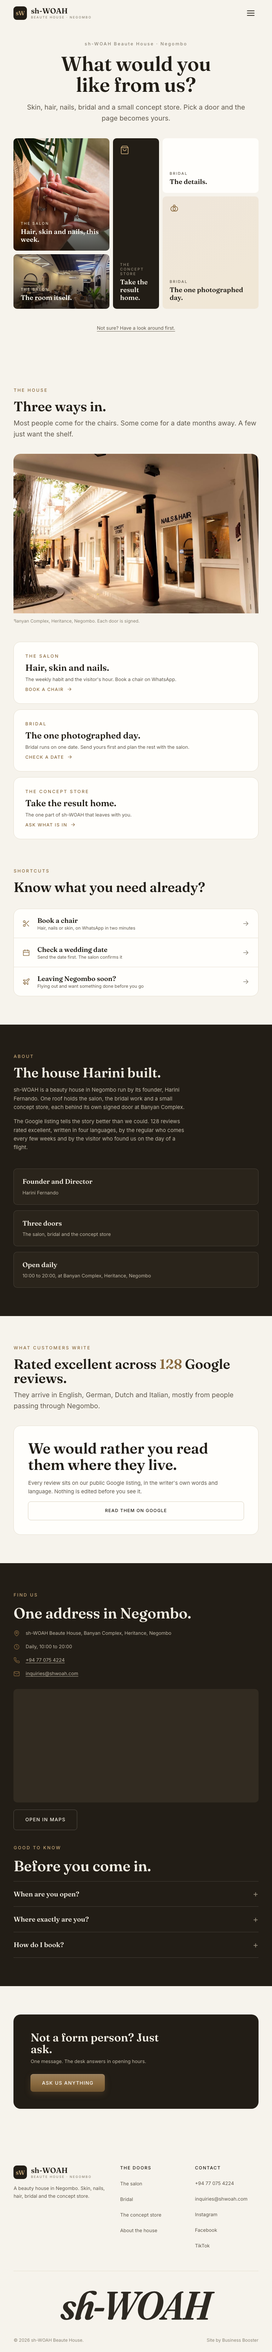
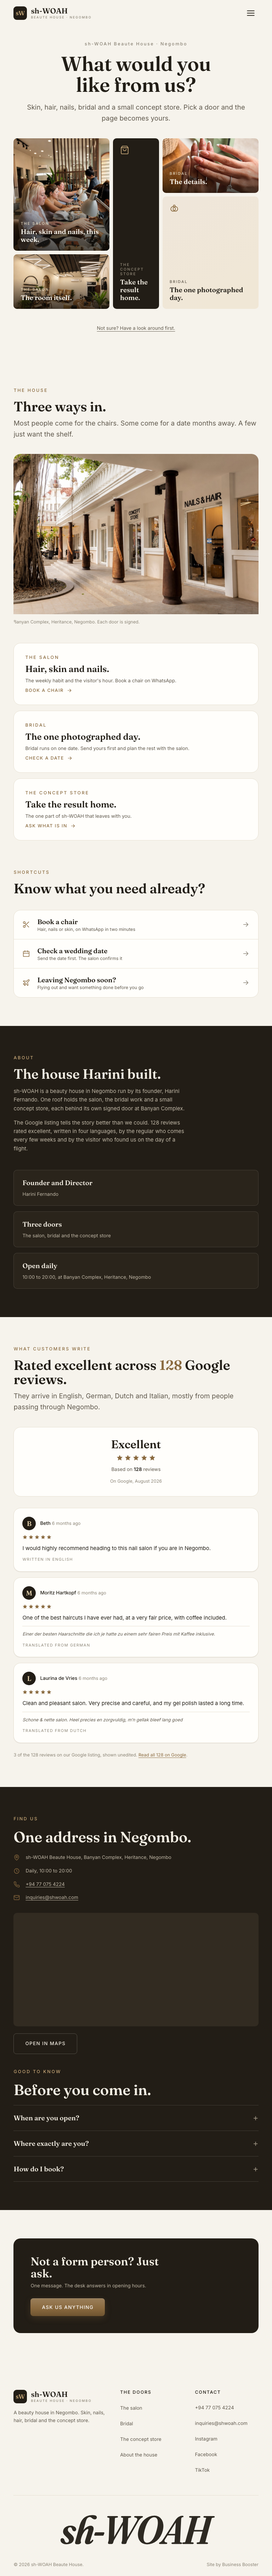
Better photography (9 real enhanced), review wall with 3 verified Google reviews, maps embed, work grid

diff --git a/index.html b/index.html
@@ -229,6 +229,10 @@ body.dev .ph-cap{display:inline-block}
 .house-shot{border-radius:var(--r-lg);overflow:hidden;margin-bottom:var(--s-12)}
 .house-shot img{width:100%;height:auto}
 .house-shot figcaption{padding:var(--s-3) 0 0;color:var(--faint);font-size:var(--fs-xs)}
+.work-grid{display:grid;grid-template-columns:repeat(4,1fr);gap:var(--s-3)}
+@media(max-width:820px){.work-grid{grid-template-columns:repeat(2,1fr)}}
+.work-grid figure{margin:0;border-radius:var(--r-md);overflow:hidden;background:var(--surface-2)}
+.work-grid img{width:100%;height:100%;object-fit:cover;aspect-ratio:4/5}
 .map-embed{border:0;width:100%;height:320px;border-radius:var(--r-md);display:block;background:var(--surface-2)}
 .tools-card{border:1px solid var(--line);border-radius:var(--r-lg);background:var(--surface);overflow:hidden;max-width:760px}
 .tool-row{display:flex;width:100%;align-items:center;gap:var(--s-5);padding:var(--s-5) var(--s-6);
@@ -313,13 +317,36 @@ html.nojs .needs-js{display:none}
 .rev-fallback .big{font-family:var(--font-display);font-weight:600;font-size:var(--fs-2xl);line-height:1.1}
 @media(max-width:700px){.rev-fallback{padding:var(--s-6)}.rev-fallback .big{font-size:var(--fs-lg)}}
 .rev-fallback .big i{font-style:normal;color:var(--brand)}
+
+/* review wall: score rail + cards */
+.rev-wall{display:grid;grid-template-columns:230px minmax(0,1fr);gap:var(--s-10);align-items:start}
+@media(max-width:900px){.rev-wall{grid-template-columns:1fr;gap:var(--s-8)}}
+.rev-score{text-align:center;border:1px solid var(--line);border-radius:var(--r-lg);
+  background:var(--surface);padding:var(--s-8) var(--s-5)}
+.rev-score .word{font-family:var(--font-display);font-weight:600;font-size:var(--fs-xl);line-height:1}
+.rev-score .stars{display:flex;justify-content:center;gap:3px;margin:var(--s-3) 0}
+.rev-score .stars svg{width:20px;height:20px;color:var(--brand)}
+.rev-score .count{color:var(--muted);font-size:var(--fs-sm)}
+.rev-score .count b{color:var(--ink);font-weight:600}
+.rev-score .src{margin-top:var(--s-3);color:var(--faint);font-size:var(--fs-xs)}
 .rev-grid{display:grid;grid-template-columns:repeat(3,1fr);gap:var(--s-4)}
-@media(max-width:820px){.rev-grid{grid-template-columns:1fr}}
-.rev-card{border:1px solid var(--line);border-radius:var(--r-lg);background:var(--surface);padding:var(--s-6);
-  display:flex;flex-direction:column;gap:var(--s-3);font-size:var(--fs-sm)}
-.rev-card .r-meta{display:flex;justify-content:space-between;gap:var(--s-3);color:var(--faint);font-size:var(--fs-xs)}
-.rev-card .r-text{color:var(--ink)}
-.rev-card .r-orig{color:var(--faint);font-style:italic}
+@media(max-width:900px){.rev-grid{grid-template-columns:1fr}}
+.rev-card{position:relative;border:1px solid var(--line);border-radius:var(--r-lg);background:var(--surface);
+  padding:var(--s-6);display:flex;flex-direction:column;gap:var(--s-3);font-size:var(--fs-sm);
+  box-shadow:var(--shadow-xs)}
+.rev-card .r-top{display:flex;align-items:center;gap:var(--s-3)}
+.rev-card .r-av{width:38px;height:38px;border-radius:50%;flex:none;display:grid;place-items:center;
+  background:var(--brand-ink);color:#e6d3ae;font-family:var(--font-display);font-weight:600;font-size:var(--fs-md)}
+.rev-card .r-who{font-weight:500;color:var(--ink);line-height:1.25}
+.rev-card .r-when{color:var(--faint);font-size:var(--fs-xs)}
+.rev-card .r-stars{display:flex;gap:2px}
+.rev-card .r-stars svg{width:15px;height:15px;color:var(--brand)}
+.rev-card .r-text{color:var(--ink);font-size:var(--fs-base);line-height:1.55}
+.rev-card .r-orig{color:var(--muted);font-style:italic;font-size:var(--fs-xs);
+  border-top:1px solid var(--line);padding-top:var(--s-3)}
+.rev-card .r-lang{margin-top:auto;color:var(--faint);font-size:var(--fs-2xs);
+  letter-spacing:.14em;text-transform:uppercase}
+.rev-note{margin-top:var(--s-6);color:var(--faint);font-size:var(--fs-xs)}
 .rev-filters{display:flex;gap:var(--s-2);flex-wrap:wrap;margin-bottom:var(--s-6)}
 
 /* ======= price surface ======= */
@@ -439,12 +466,12 @@ html.nojs .needs-js{display:none}
          cluster left, the product alone centre, bridal right. -->
     <div class="mosaic" role="group" aria-label="Choose what you came for">
       <button type="button" class="tile tile-s1 tile-photo" data-door="salon" onclick="pickDoor('salon')">
-        <img src="assets/nails-work.jpg" width="800" height="971" alt="Nail work done at sh-WOAH, a French manicure with gold star details">
+        <img src="assets/manicure-bar.jpg" width="1200" height="1463" alt="The manicure bar at sh-WOAH, four customers having their nails done">
         <span class="t-door">The salon</span>
         <span class="t-line">Hair, skin and nails, this week.</span>
       </button>
       <button type="button" class="tile tile-s2 tile-photo" data-door="salon" onclick="pickDoor('salon')">
-        <img src="assets/salon-room.jpg" width="800" height="1044" alt="The salon floor at sh-WOAH in Negombo">
+        <img src="assets/salon-room.jpg" width="900" height="1176" alt="The salon floor at sh-WOAH in Negombo">
         <span class="t-door">The salon</span>
         <span class="t-line">The room itself.</span>
       </button>
@@ -454,8 +481,11 @@ html.nojs .needs-js{display:none}
         <span class="t-door">The concept store</span>
         <span class="t-line">Take the result home.</span>
       </button>
+      <!-- Bridal tiles carry NO photograph: every image supplied so far is salon
+           work, and a manicure under a "Bridal" label claims a portfolio that
+           has not been supplied. Designed tiles until real bridal work arrives. -->
       <button type="button" class="tile tile-b1" data-door="bridal" onclick="pickDoor('bridal')">
-        <span class="ph-cap">Photo slot: detail, hands or veil</span>
+        <span class="ph-cap">Photo slot: real bridal work</span>
         <span class="t-door">Bridal</span>
         <span class="t-line">The details.</span>
       </button>
@@ -483,7 +513,7 @@ html.nojs .needs-js{display:none}
       <p>Most people come for the chairs. Some come for a date months away. A few just want the shelf.</p>
     </div>
     <figure class="house-shot" data-sr>
-      <img src="assets/exterior-three-doors.jpg" width="1200" height="780" loading="lazy" alt="The sh-WOAH arcade in Negombo, with Bridal, Concept Store and Nails &amp; Hair signs over their own doors">
+      <img src="assets/exterior-three-doors.jpg" width="1600" height="1046" loading="lazy" alt="The sh-WOAH arcade in Negombo, with Bridal, Concept Store and Nails &amp; Hair signs over their own doors">
       <figcaption>Banyan Complex, Heritance, Negombo. Each door is signed.</figcaption>
     </figure>
     <div class="lines" data-sr>
@@ -579,6 +609,21 @@ html.nojs .needs-js{display:none}
       </div>
     </div>
     <p class="tool-note" data-sr>The full treatment menu is being written up with prices. Until it is published here, the desk will send it to you.</p>
+  </div>
+</section>
+
+<section class="section" data-modes="salon" id="work">
+  <div class="wrap">
+    <div class="sect-head" data-sr>
+      <span class="eyebrow">The work</span>
+      <h2>Done here, in this room.</h2>
+    </div>
+    <div class="work-grid" data-sr>
+      <figure><img src="assets/nail-bar.jpg" width="900" height="1074" loading="lazy" alt="The nail bar at sh-WOAH, two stations under an arched polish display"></figure>
+      <figure><img src="assets/pedicure-lounge.jpg" width="900" height="1140" loading="lazy" alt="The pedicure lounge at sh-WOAH, customers in cream armchairs against a green wall"></figure>
+      <figure><img src="assets/hair-result.jpg" width="900" height="880" loading="lazy" alt="A finished blow dry at sh-WOAH, layered and lifted"></figure>
+      <figure><img src="assets/lash-work.jpg" width="900" height="1170" loading="lazy" alt="Lash work in progress at sh-WOAH"></figure>
+    </div>
   </div>
 </section>
 
@@ -813,13 +858,24 @@ html.nojs .needs-js{display:none}
       <h2>Rated excellent across <i style="font-style:normal;color:var(--brand)">128</i> Google reviews.</h2>
       <p>They arrive in English, German, Dutch and Italian, mostly from people passing through Negombo.</p>
     </div>
+    <div class="rev-wall" id="revWall" data-sr hidden>
+      <aside class="rev-score">
+        <p class="word">Excellent</p>
+        <div class="stars" aria-hidden="true"></div>
+        <p class="count">Based on <b>128</b> reviews</p>
+        <p class="src">On Google, August 2026</p>
+      </aside>
+      <div>
+        <div class="rev-grid" id="revGrid"></div>
+        <p class="rev-note"><span id="revNote"></span>
+          <a href="https://www.google.com/maps/search/?api=1&amp;query=sh-WOAH%20Beaute%20House%20Negombo" target="_blank" rel="noopener" style="color:var(--brand);text-decoration:underline;text-underline-offset:3px">Read all 128 on Google</a>.</p>
+      </div>
+    </div>
     <div data-sr>
-      <div class="rev-filters" id="revFilters" hidden></div>
-      <div class="rev-grid" id="revGrid" hidden></div>
       <div class="rev-fallback" id="revFallback">
         <p class="big">We would rather you read them where they live.</p>
         <p style="color:var(--muted)">Every review sits on our public Google listing, in the writer's own words and language. Nothing is edited before you see it.</p>
-        <a class="btn btn-ghost" href="https://www.google.com/maps/search/?api=1&query=sh-WOAH%20Beaute%20House%20Negombo" target="_blank" rel="noopener">Read them on Google</a>
+        <a class="btn btn-ghost" href="https://www.google.com/maps/search/?api=1&amp;query=sh-WOAH%20Beaute%20House%20Negombo" target="_blank" rel="noopener">Read them on Google</a>
       </div>
     </div>
   </div>
@@ -919,9 +975,26 @@ const CFG = {
 /* Reviews: verified only. Schema per the build brief. Empty until a confirmed
    subset is supplied (BB pulls by hand, Harini confirms). Live Google sync
    needs the Places API and a paid key: swap loadReviews() only. */
+/* Read off the salon's own published Google reviews widget, 26 August 2026.
+   ONLY COMPLETE SENTENCES are stored: the widget truncates longer reviews with
+   "Read more" and a half sentence must never be published as a whole one.
+   Translations are labelled as translations and the original always ships. */
 const REVIEWS = [
-  /* { id:'', author:'', rating:5, originalText:'', translatedText:'', language:'de',
-       serviceLine:'salon', staffMentioned:[], sourceUrl:'', reviewDate:'', verified:false } */
+  { id:'r1', author:'Moritz Hartkopf', rating:5, language:'de',
+    originalText:'Einer der besten Haarschnitte die ich je hatte zu einem sehr fairen Preis mit Kaffee inklusive.',
+    translatedText:'One of the best haircuts I have ever had, at a very fair price, with coffee included.',
+    serviceLine:'salon', staffMentioned:[], sourceUrl:'https://www.google.com/maps/search/?api=1&query=sh-WOAH%20Beaute%20House%20Negombo',
+    reviewDate:'6 months ago', verified:true },
+  { id:'r2', author:'Beth', rating:5, language:'en',
+    originalText:'I would highly recommend heading to this nail salon if you are in Negombo.',
+    translatedText:'',
+    serviceLine:'salon', staffMentioned:[], sourceUrl:'https://www.google.com/maps/search/?api=1&query=sh-WOAH%20Beaute%20House%20Negombo',
+    reviewDate:'6 months ago', verified:true },
+  { id:'r3', author:'Laurina de Vries', rating:5, language:'nl',
+    originalText:'Schone & nette salon. Heel precies en zorgvuldig, m’n gellak bleef lang goed',
+    translatedText:'Clean and pleasant salon. Very precise and careful, my gel polish lasted a long time.',
+    serviceLine:'salon', staffMentioned:[], sourceUrl:'https://www.google.com/maps/search/?api=1&query=sh-WOAH%20Beaute%20House%20Negombo',
+    reviewDate:'6 months ago', verified:true }
 ];
 const TEAM = [];        /* { id, name, role, specialities:[], photo, languages:[], bookableByName } */
 const CONCEPT = { flagged: true, products: [] };  /* { id, name, priceLKR:null, photo, description, verified:false } */
@@ -1075,28 +1148,40 @@ function sendBridal(btn){
    128 are on the page. A visitor's own language is ordered first.
    ===================================================================== */
 const LANG_NAME = { en:'English', de:'German', nl:'Dutch', it:'Italian' };
+const STAR = '<svg viewBox="0 0 24 24" fill="currentColor" aria-hidden="true"><path d="m12 2 2.9 6.3 6.8.8-5 4.7 1.3 6.8L12 17.3 6 20.6l1.3-6.8-5-4.7 6.8-.8z"/></svg>';
+const esc = s => String(s).replace(/[&<>"]/g, c => ({'&':'&amp;','<':'&lt;','>':'&gt;','"':'&quot;'}[c]));
+
 function renderReviews(){
   let rows = REVIEWS.filter(r => r.verified);
-  if (DEV && !rows.length) {
-    rows = [
-      { author:'[Placeholder]', rating:5, originalText:'[Placeholder review. Not a real customer. Composition check only.]', translatedText:'', language:'en', serviceLine:'salon', staffMentioned:[], reviewDate:'' },
-      { author:'[Placeholder]', rating:5, originalText:'[Platzhalter. Kein echter Kunde.]', translatedText:'[Placeholder. Not a real customer.]', language:'de', serviceLine:'bridal', staffMentioned:[], reviewDate:'' },
-      { author:'[Placeholder]', rating:5, originalText:'[Placeholder review. Not a real customer.]', translatedText:'', language:'en', serviceLine:'salon', staffMentioned:[], reviewDate:'' }
-    ];
-  }
   if (MODE === 'salon' || MODE === 'bridal') rows = rows.filter(r => r.serviceLine === MODE);
-  const grid = document.getElementById('revGrid'), fb = document.getElementById('revFallback'),
-        filters = document.getElementById('revFilters');
-  if (!rows.length) { grid.hidden = true; filters.hidden = true; fb.hidden = false; return; }
+  const wall = document.getElementById('revWall'), grid = document.getElementById('revGrid'),
+        fb = document.getElementById('revFallback'), note = document.getElementById('revNote');
+  if (!rows.length) { wall.hidden = true; fb.hidden = false; return; }
+
+  /* a visitor meets their own language first */
   const mine = (navigator.language || 'en').slice(0,2);
-  rows.sort((a,b) => (b.language === mine) - (a.language === mine));
+  rows = rows.slice().sort((a,b) => (b.language === mine) - (a.language === mine));
+
+  wall.querySelector('.stars').innerHTML = STAR.repeat(5);
   grid.innerHTML = rows.map(r => `
     <figure class="rev-card">
-      <div class="r-meta"><span>${r.author}</span><span>${LANG_NAME[r.language] || r.language}${r.reviewDate ? ' · ' + r.reviewDate : ''}</span></div>
-      <blockquote class="r-text">${r.translatedText || r.originalText}</blockquote>
-      ${r.translatedText ? '<p class="r-orig">Original: ' + r.originalText + '</p><p class="r-orig">Translated from ' + (LANG_NAME[r.language] || r.language) + '.</p>' : ''}
+      <div class="r-top">
+        <span class="r-av" aria-hidden="true">${esc(r.author.trim()[0])}</span>
+        <span>
+          <span class="r-who">${esc(r.author)}</span>
+          <span class="r-when">${esc(r.reviewDate)}</span>
+        </span>
+      </div>
+      <div class="r-stars" role="img" aria-label="${r.rating} out of 5">${STAR.repeat(r.rating)}</div>
+      <blockquote class="r-text">${esc(r.translatedText || r.originalText)}</blockquote>
+      ${r.translatedText
+        ? `<figcaption class="r-orig">${esc(r.originalText)}</figcaption>
+           <span class="r-lang">Translated from ${LANG_NAME[r.language] || r.language}</span>`
+        : `<span class="r-lang">Written in ${LANG_NAME[r.language] || r.language}</span>`}
     </figure>`).join('');
-  grid.hidden = false; fb.hidden = true; filters.hidden = true;
+
+  note.textContent = rows.length + ' of the 128 reviews on our Google listing, shown unedited. ';
+  wall.hidden = false; fb.hidden = true;
 }
 
 /* Concept store dev preview: structure only, flagged, no public shopfront. */
